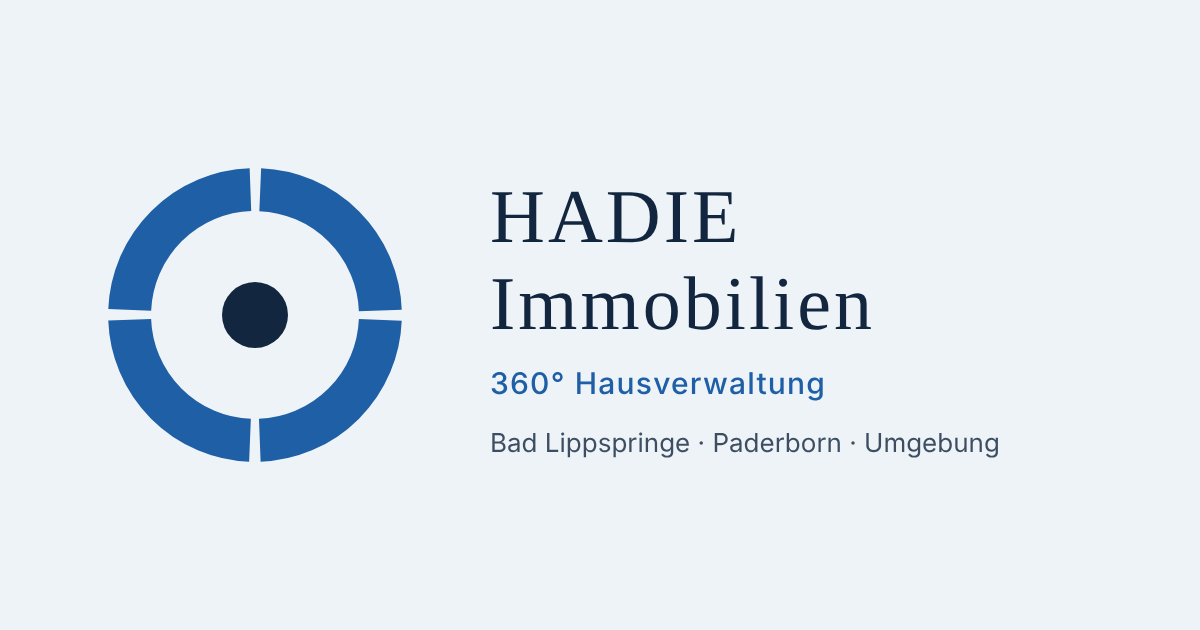
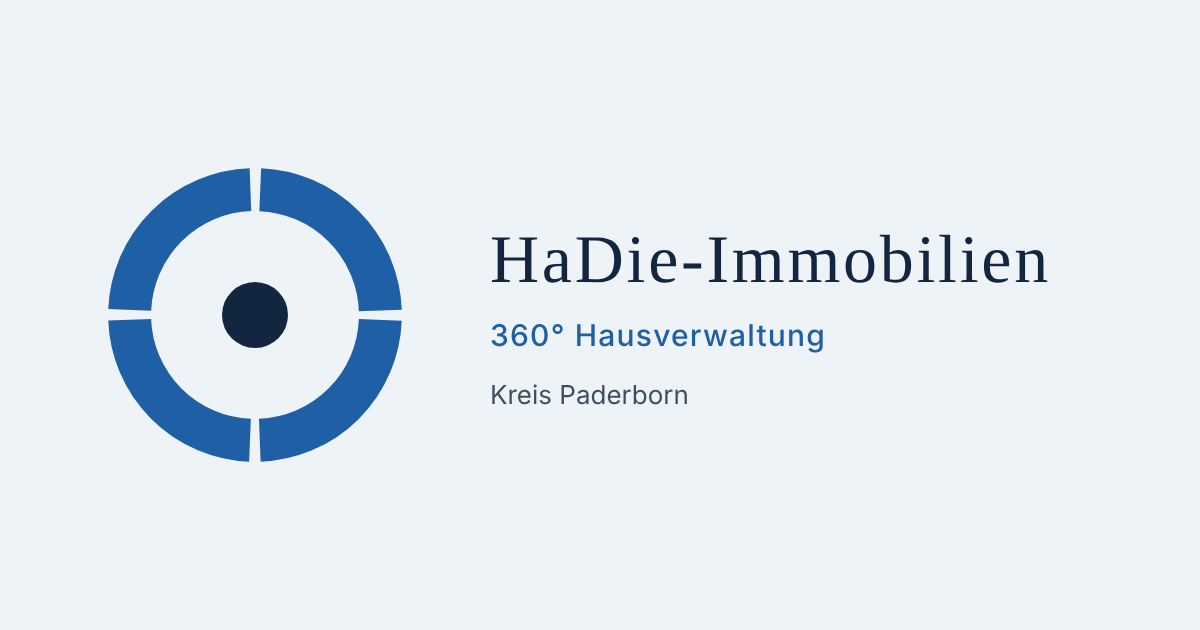
Firmenname auf HaDie-Immobilien umstellen
Name in allen Texten, Seitentiteln, Suchmaschinen-Daten, Fußzeile und im
Vorschaubild für geteilte Links; Kurzform HaDie im Logo.

Claude-Session: https://claude.ai/code/session_01Crjm5abWZQqG9TCbwr6KYL

Changed region(s): [[0.4008, 0.3016, 0.8942, 0.6635], [0.4008, 0.6937, 0.8325, 0.7238]]

diff --git a/src/data/leistungen.ts b/src/data/leistungen.ts
@@ -10,7 +10,7 @@
  * Einträge bestimmt die Position im Kreis (im Uhrzeigersinn).
  *
  * HINWEIS: Die Detailpunkte unter `umfang` beschreiben den üblichen
- * Inhalt des jeweiligen Bereichs und müssen von HADIE geprüft und
+ * Inhalt des jeweiligen Bereichs und müssen von HaDie geprüft und
  * an das tatsächliche Angebot angepasst werden.
  */
 export interface Leistung {
@@ -34,9 +34,9 @@ export const leistungen: Leistung[] = [
     kurz: 'Das Fundament: Ihre Immobilie kaufmännisch, technisch und organisatorisch in Ordnung – für Eigentümergemeinschaften und Mietobjekte.',
     seoTitel: 'Hausverwaltung im Kreis Paderborn',
     seoBeschreibung:
-      'Klassische Hausverwaltung für Eigentümer und Eigentümergemeinschaften im Kreis Paderborn – als Teil der 360° Hausverwaltung von HADIE Immobilien.',
+      'Klassische Hausverwaltung für Eigentümer und Eigentümergemeinschaften im Kreis Paderborn – als Teil der 360° Hausverwaltung von HaDie-Immobilien.',
     einleitung:
-      'Abrechnungen, die stimmen. Unterlagen, die vollständig sind. Ein Gebäude, bei dem jemand hinschaut. Die klassische Hausverwaltung ist das Fundament unserer Arbeit – und der Punkt, an dem bei HADIE alles Weitere zusammenläuft.',
+      'Abrechnungen, die stimmen. Unterlagen, die vollständig sind. Ein Gebäude, bei dem jemand hinschaut. Die klassische Hausverwaltung ist das Fundament unserer Arbeit – und der Punkt, an dem bei HaDie alles Weitere zusammenläuft.',
     umfang: [
       {
         titel: 'Kaufmännisch',
@@ -54,7 +54,7 @@ export const leistungen: Leistung[] = [
     zusammenspiel:
       'Weil wir Ihr Gebäude aus der Verwaltung kennen, wissen wir früh, was ansteht – ob im Alltag am Objekt, bei einer Renovierung oder bei einem größeren Vorhaben. Sie müssen niemandem erst erklären, worum es geht.',
     platzhalter:
-      'Genauer Leistungsumfang der Verwaltung (z. B. WEG-Verwaltung, Mietverwaltung, Sondereigentumsverwaltung) – bitte von HADIE bestätigen und ergänzen.',
+      'Genauer Leistungsumfang der Verwaltung (z. B. WEG-Verwaltung, Mietverwaltung, Sondereigentumsverwaltung) – bitte von HaDie bestätigen und ergänzen.',
   },
   {
     slug: 'objektservice',
@@ -63,7 +63,7 @@ export const leistungen: Leistung[] = [
     kurz: 'Der Alltag: Dienstleistungen wie der Mülltonnendienst, die niemandem auffallen – solange sie zuverlässig erledigt werden.',
     seoTitel: 'Objektservice & Mülltonnendienst im Kreis Paderborn',
     seoBeschreibung:
-      'Alltägliche Dienstleistungen rund um Ihre Immobilie, etwa der Mülltonnendienst – direkt von Ihrer Hausverwaltung HADIE Immobilien im Kreis Paderborn.',
+      'Alltägliche Dienstleistungen rund um Ihre Immobilie, etwa der Mülltonnendienst – direkt von Ihrer Hausverwaltung HaDie-Immobilien im Kreis Paderborn.',
     einleitung:
       'Eine Immobilie zeigt im Alltag, wie gut sie betreut wird. Stehen die Tonnen rechtzeitig an der Straße? Kümmert sich jemand, bevor aus einer Kleinigkeit ein Ärgernis wird? Genau diese Aufgaben übernehmen wir gleich mit.',
     umfang: [
@@ -83,7 +83,7 @@ export const leistungen: Leistung[] = [
     zusammenspiel:
       'Wer regelmäßig am Objekt ist, sieht mehr als jede Akte. Was uns im Alltag auffällt, fließt in die Verwaltung ein – und wird erledigt, solange es noch klein ist.',
     platzhalter:
-      'Weitere alltägliche Dienstleistungen neben dem Mülltonnendienst (z. B. Winterdienst, Treppenhausreinigung, Gartenpflege, Hausmeisterdienste) – bitte von HADIE benennen.',
+      'Weitere alltägliche Dienstleistungen neben dem Mülltonnendienst (z. B. Winterdienst, Treppenhausreinigung, Gartenpflege, Hausmeisterdienste) – bitte von HaDie benennen.',
   },
   {
     slug: 'renovierung-sanierung',
@@ -92,7 +92,7 @@ export const leistungen: Leistung[] = [
     kurz: 'Der Bestand: Wohnungen und Gebäudeteile wieder in einen Zustand bringen, der sich gut vermietet und seinen Wert behält.',
     seoTitel: 'Renovierung & Sanierung von Beständen – Raum Paderborn',
     seoBeschreibung:
-      'Renovierung und Sanierung von Wohnungen und Beständen im Kreis Paderborn – organisiert von Ihrer Hausverwaltung HADIE Immobilien.',
+      'Renovierung und Sanierung von Wohnungen und Beständen im Kreis Paderborn – organisiert von Ihrer Hausverwaltung HaDie-Immobilien.',
     einleitung:
       'Irgendwann reicht Instandhalten nicht mehr. Eine Wohnung wird frei und braucht mehr als frische Farbe, ein Bestand ist in die Jahre gekommen. Wir kümmern uns um Renovierung und Sanierung – damit Sie nicht zum Bauleiter werden müssen.',
     umfang: [
@@ -112,7 +112,7 @@ export const leistungen: Leistung[] = [
     zusammenspiel:
       'Eine Renovierung endet bei uns nicht mit der Schlussrechnung. Was erneuert wurde, kennen wir anschließend auch in der Verwaltung – das macht spätere Entscheidungen einfacher.',
     platzhalter:
-      'Konkrete Angaben zu Renovierung und Sanierung (typische Maßnahmen, eigene Ausführung oder Zusammenarbeit mit Partnerbetrieben) sowie Vorher-/Nachher-Fotos – bitte von HADIE liefern.',
+      'Konkrete Angaben zu Renovierung und Sanierung (typische Maßnahmen, eigene Ausführung oder Zusammenarbeit mit Partnerbetrieben) sowie Vorher-/Nachher-Fotos – bitte von HaDie liefern.',
   },
   {
     slug: 'projektbegleitung',
@@ -121,7 +121,7 @@ export const leistungen: Leistung[] = [
     kurz: 'Das Ganze: Vorhaben, die das gesamte Gebäude betreffen, von der ersten Überlegung bis zum Abschluss an Ihrer Seite.',
     seoTitel: 'Projektbegleitung für Gebäude & Eigentümergemeinschaften',
     seoBeschreibung:
-      'Begleitung großer Projekte am ganzen Gebäude für Eigentümer, Eigentümergemeinschaften und Investoren im Kreis Paderborn – HADIE Immobilien.',
+      'Begleitung großer Projekte am ganzen Gebäude für Eigentümer, Eigentümergemeinschaften und Investoren im Kreis Paderborn – HaDie-Immobilien.',
     einleitung:
       'Manche Vorhaben betreffen nicht eine Wohnung, sondern das ganze Haus. Sie kosten viel, dauern lange und verlangen viele Entscheidungen. Wir begleiten solche Projekte – und sorgen dafür, dass Sie dabei den Überblick behalten.',
     umfang: [
@@ -141,7 +141,7 @@ export const leistungen: Leistung[] = [
     zusammenspiel:
       'Große Projekte gelingen leichter, wenn derjenige sie begleitet, der das Gebäude, die Eigentümer und die Zahlen ohnehin kennt. Hier schließt sich der Kreis.',
     platzhalter:
-      'Beispiele für begleitete Projekte (Art des Vorhabens, Umfang, gern mit Fotos) – nur echte Projekte, bitte von HADIE liefern.',
+      'Beispiele für begleitete Projekte (Art des Vorhabens, Umfang, gern mit Fotos) – nur echte Projekte, bitte von HaDie liefern.',
   },
 ];
 

diff --git a/src/styles/global.css b/src/styles/global.css
@@ -1,5 +1,5 @@
 /* ==========================================================================
-   HADIE Immobilien – Gestaltung
+   HaDie-Immobilien – Gestaltung
    Farben, Schriften und Abstände sind oben als Variablen definiert.
    ========================================================================== */
 
@@ -655,7 +655,7 @@ a.kreis__segment:focus-visible path.flaeche {
   margin: 1.25rem 0 0;
 }
 
-/* ---------- Vergleich «üblich / HADIE» ---------- */
+/* ---------- Vergleich «üblich / HaDie» ---------- */
 
 .zweier {
   display: grid;

diff --git a/src/data/site.ts b/src/data/site.ts
@@ -9,8 +9,8 @@
  * die Website an der Stelle einen gut sichtbaren Platzhalter.
  */
 export const site = {
-  name: 'HADIE Immobilien',
-  kurzname: 'HADIE',
+  name: 'HaDie-Immobilien',
+  kurzname: 'HaDie',
   claim: '360° Hausverwaltung',
   gruendungsjahr: 2015,
 

diff --git a/README.md b/README.md
@@ -1,6 +1,6 @@
-# Website HADIE Immobilien
+# Website HaDie-Immobilien
 
-Statische Website für **HADIE Immobilien – 360° Hausverwaltung**, Kreis Paderborn (Büro in Bad Lippspringe).
+Statische Website für **HaDie-Immobilien – 360° Hausverwaltung**, Kreis Paderborn (Büro in Bad Lippspringe).
 Gebaut mit [Astro](https://astro.build): Das Ergebnis sind reine HTML-/CSS-Dateien, die auf jedem Webspace laufen.
 
 ## Starten
